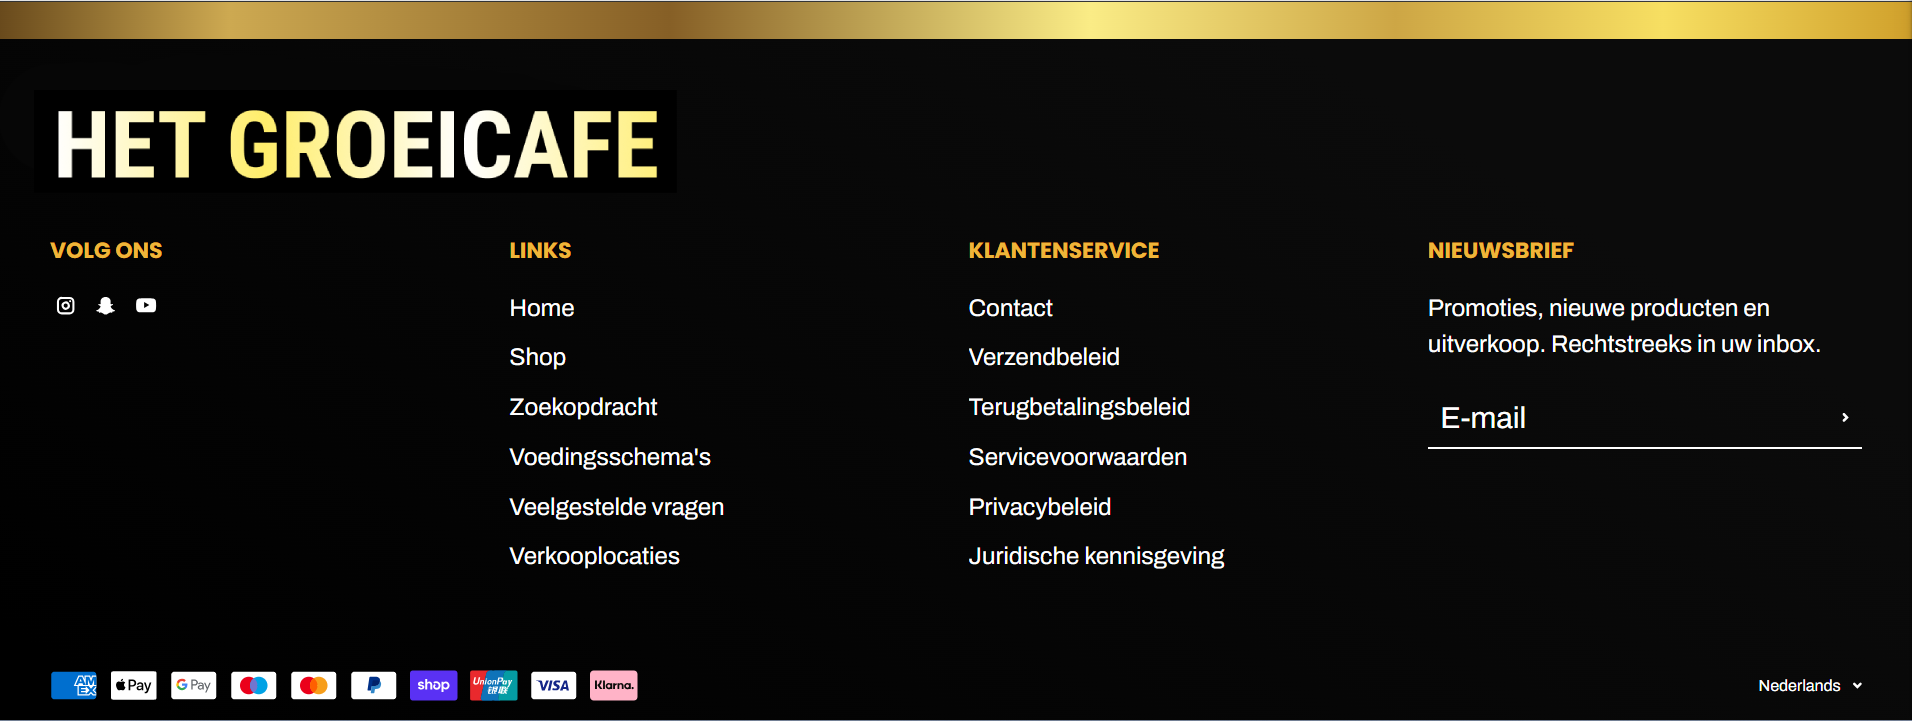
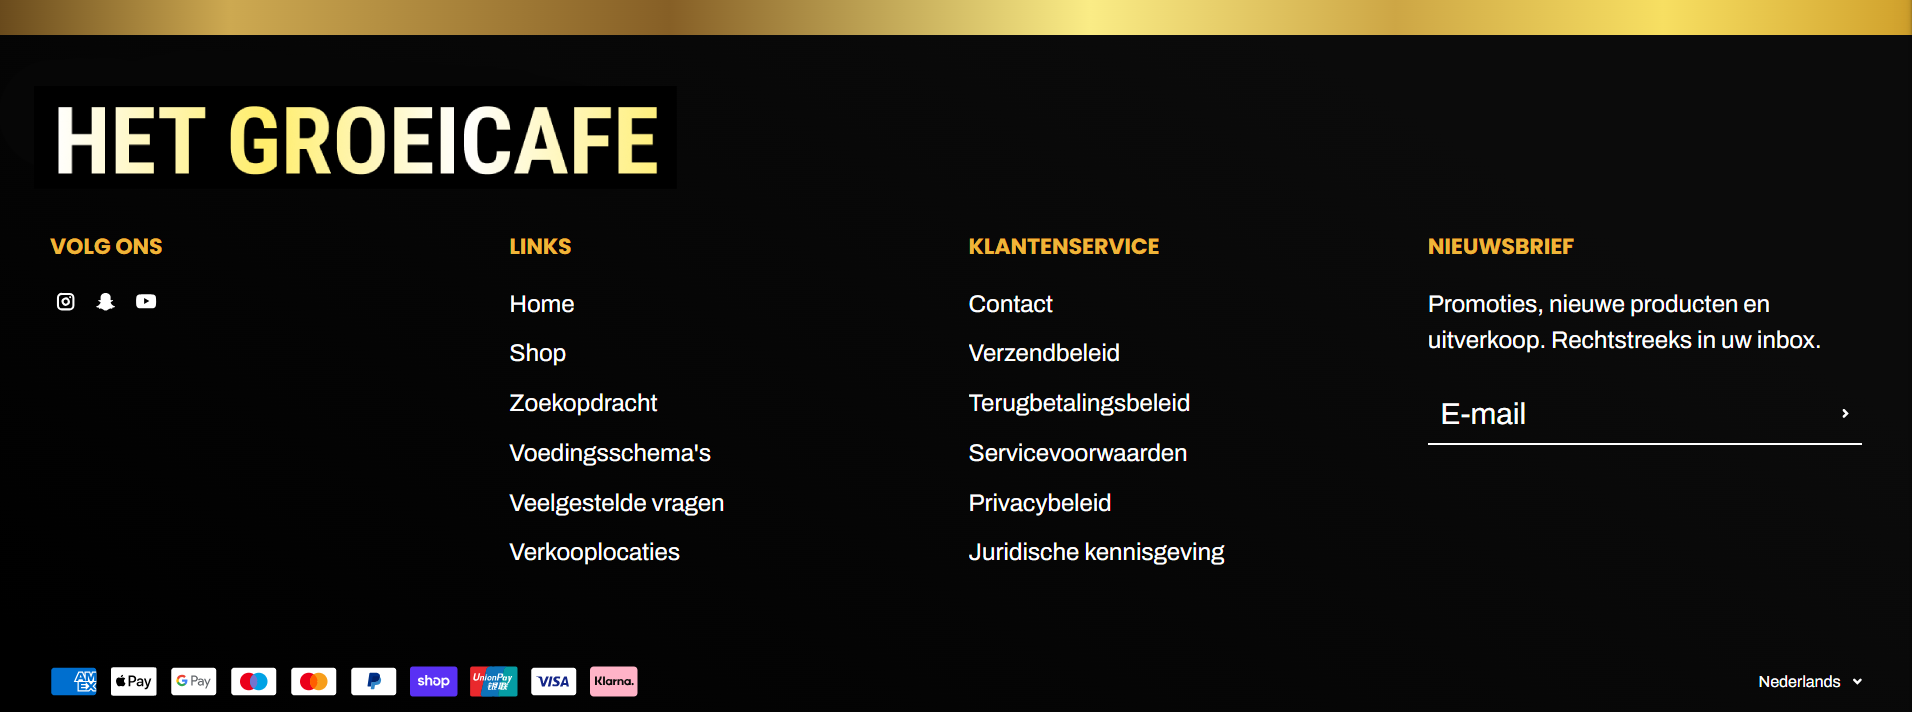
design testing

diff --git a/public/style.css b/public/style.css
@@ -12,17 +12,45 @@ body{
 }
 
 .sam-sulek-img{
-    z-index: 1;
     width: 100%;
 }
 
 .promo-top{
-    background-color: red;
-    height: 50px;
+    background: linear-gradient(90deg, rgba(142,104,43,1) 0%, rgba(199,162,77,1) 47%, rgba(142,104,43,1) 100% );
+    height: 35px;
     width: 100%;
 }
 
 .mo-footer{
-    z-index: 99;
     width: 100%;
+}
+
+.main-image{
+    width: 100%;
+    background-image: url("media/sam-sulek.png");
+}
+
+.image-overlay{
+    position: absolute;
+    margin-top: 35px;
+    width: 100%;
+    height: 855px;
+}
+
+.groeicafe-text-container{
+    display: flex;
+    flex-direction: column;
+    justify-content: center;
+    align-items: center;
+    width: 100%;
+    height: 150px;
+    background-color: #0000;
+}
+
+.groeicafe-text{
+    background: -webkit-linear-gradient(0deg, rgb(202, 190, 171) 20%, rgb(255, 202, 56) 47%, rgb(210, 201, 187) 80% );
+    -webkit-background-clip: text;
+    -webkit-text-fill-color: transparent;
+    font-size: 125px;
+
 }

diff --git a/resources/views/index.php b/resources/views/index.php
@@ -10,7 +10,12 @@
     <div class="promo-top">
 
     </div>  
-    <img class="sam-sulek-img" src="media/sam-sulek.png">
-    <ing class="mo-footer" src="media/mb-nutrition-footer.png">
+        <img src="media/sam-sulek.png" class="main-image">
+        <div class="image-overlay">
+            <div class="groeicafe-text-container">
+                <h1 class="groeicafe-text">HET GROEICAFE</h1>
+            </div>
+        </div>
+
 </body>
 </html>
